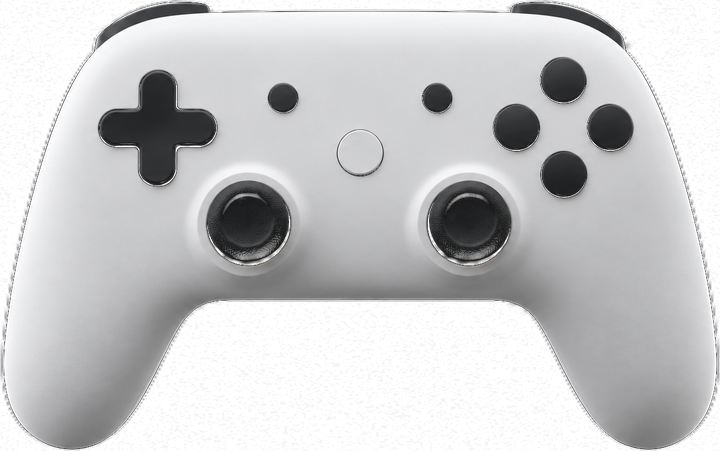
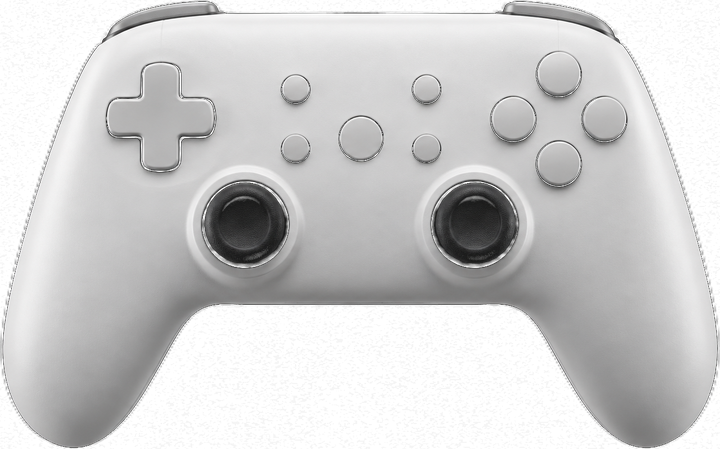
Controller art: blank monochrome buttons on 360/Switch/Stadia/8BitDo renders, markers re-measured

diff --git a/src/pad/padart.h b/src/pad/padart.h
@@ -26,21 +26,13 @@ static const QPointF ps5[] = {
     {241, 219}, {479, 219}, {241, 219}, {241, 219}, {479, 219}, {479, 219}, {128, 4}, {592, 4},
     {130, 92}, {96, 126}, {130, 160}, {162, 126}};
 static const QPointF x360[] = {
-    {570, 183}, {620, 133}, {519, 133}, {570, 83}, {278, 128}, {445, 128}, {362, 128}, {140, 16}, {580, 16},
-    {155, 125}, {458, 243}, {155, 125}, {155, 125}, {458, 243}, {458, 243}, {150, 4}, {570, 4},
-    {252, 213}, {222, 243}, {252, 273}, {282, 243}};
+    {563, 184}, {615, 130}, {511, 130}, {563, 78}, {280, 128}, {438, 128}, {359, 128}, {140, 18}, {585, 18}, {157, 125}, {456, 235}, {157, 125}, {157, 125}, {456, 235}, {456, 235}, {150, 4}, {580, 4}, {252, 203}, {215, 238}, {252, 272}, {290, 238}};
 static const QPointF switchpro[] = {
-    {565, 185}, {615, 136}, {513, 136}, {565, 86}, {275, 83}, {446, 83}, {410, 140}, {150, 15}, {560, 15},
-    {158, 118}, {452, 223}, {158, 118}, {158, 118}, {452, 223}, {452, 223}, {150, 4}, {555, 4},
-    {245, 188}, {205, 236}, {245, 258}, {285, 236}};
+    {561, 188}, {612, 138}, {509, 138}, {561, 88}, {265, 80}, {456, 80}, {414, 147}, {170, 14}, {545, 14}, {155, 126}, {458, 244}, {155, 126}, {155, 126}, {458, 244}, {458, 244}, {170, 4}, {545, 4}, {243, 205}, {208, 240}, {243, 277}, {279, 240}};
 static const QPointF stadia[] = {
-    {563, 173}, {610, 127}, {516, 127}, {563, 80}, {284, 98}, {437, 98}, {360, 150}, {140, 16}, {580, 16},
-    {248, 220}, {469, 220}, {248, 220}, {248, 220}, {469, 220}, {469, 220}, {140, 4}, {580, 4},
-    {158, 90}, {120, 127}, {158, 163}, {196, 127}};
+    {559, 164}, {604, 118}, {513, 118}, {559, 73}, {295, 90}, {427, 90}, {361, 138}, {150, 14}, {545, 12}, {245, 224}, {474, 224}, {245, 224}, {245, 224}, {474, 224}, {474, 224}, {160, 4}, {545, 4}, {161, 78}, {125, 113}, {161, 150}, {197, 113}};
 static const QPointF bitdo[] = {
-    {565, 181}, {617, 136}, {513, 136}, {565, 87}, {327, 130}, {396, 130}, {362, 180}, {160, 16}, {580, 16},
-    {265, 233}, {459, 233}, {265, 233}, {265, 233}, {459, 233}, {459, 233}, {150, 4}, {580, 4},
-    {147, 98}, {107, 133}, {147, 170}, {187, 133}};
+    {553, 184}, {603, 137}, {505, 137}, {555, 89}, {324, 143}, {401, 143}, {362, 143}, {170, 14}, {545, 14}, {270, 240}, {453, 240}, {270, 240}, {270, 240}, {453, 240}, {453, 240}, {170, 4}, {545, 4}, {172, 102}, {135, 138}, {172, 176}, {210, 138}};
 } // namespace PadArtData
 
 // SDL_GameControllerType values (stable since SDL 2.0.14) appended to the device name as a tag.
